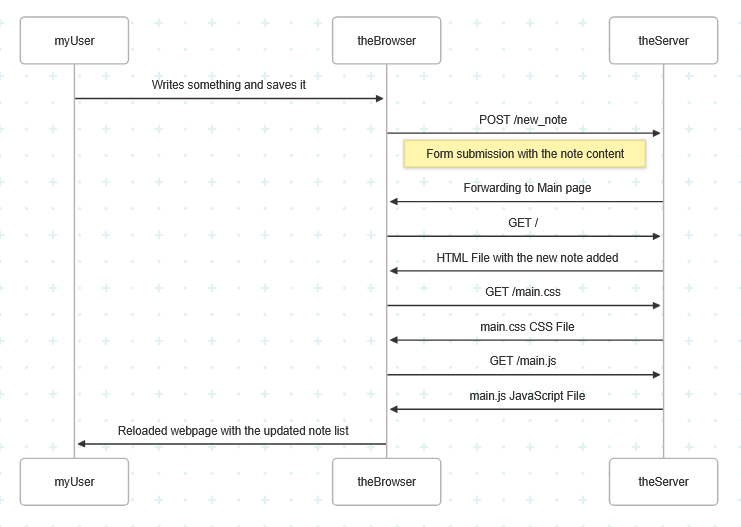
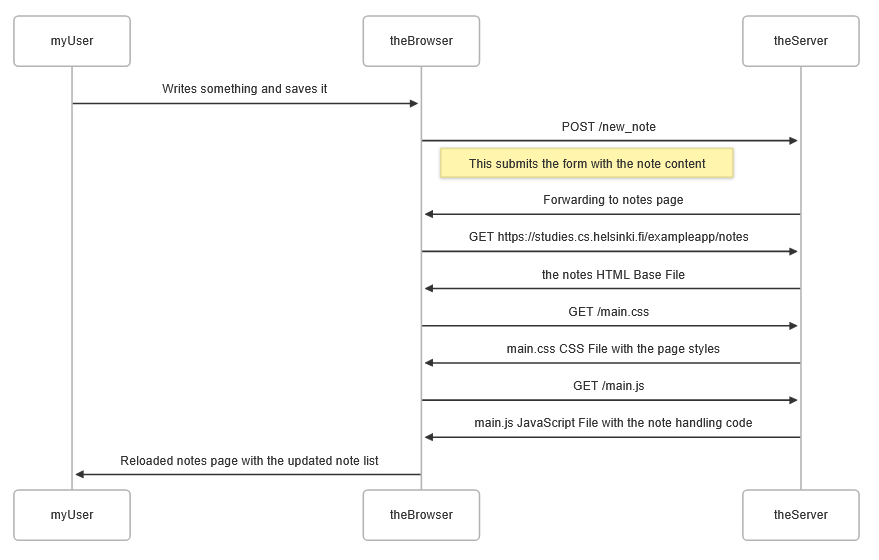
0.4 flow correction + new image

diff --git a/exercise04.md b/exercise04.md
@@ -10,9 +10,9 @@ sequenceDiagram
     theBrowser->>theServer: POST /new_note
     Note right of theBrowser: This submits the form with the note content
 
-    theServer->>theBrowser: Forwarding to Main page
-    theBrowser->>theServer: GET /
-    theServer->>theBrowser: index.html HTML File with the new note added
+    theServer->>theBrowser: Forwarding to notes page
+    theBrowser->>theServer: GET https://studies.cs.helsinki.fi/exampleapp/notes
+    theServer->>theBrowser: the notes HTML Base File
 
     theBrowser->>theServer: GET /main.css
     theServer->>theBrowser: main.css CSS File with the page styles
@@ -20,7 +20,7 @@ sequenceDiagram
     theBrowser->>theServer: GET /main.js
     theServer->>theBrowser: main.js JavaScript File with the note handling code
 
-    theBrowser->>myUser: Reloaded webpage with the updated note list
+    theBrowser->>myUser: Reloaded notes page with the updated note list
 ```
 
 ![./assets/0.4.PNG](./assets/0.4.PNG)
